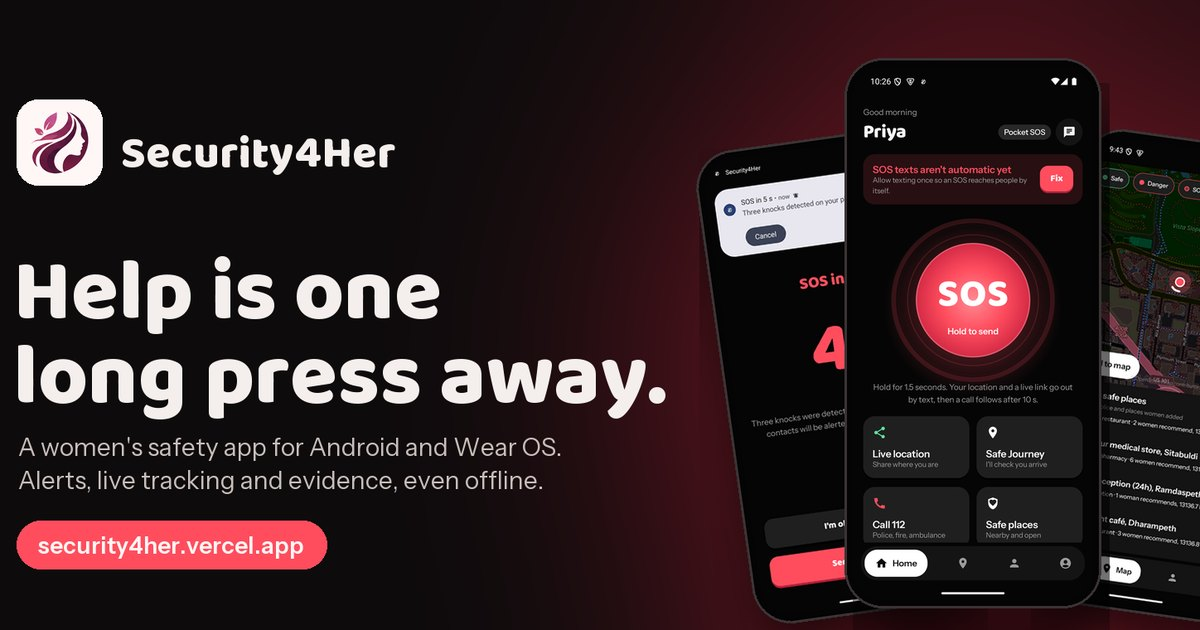
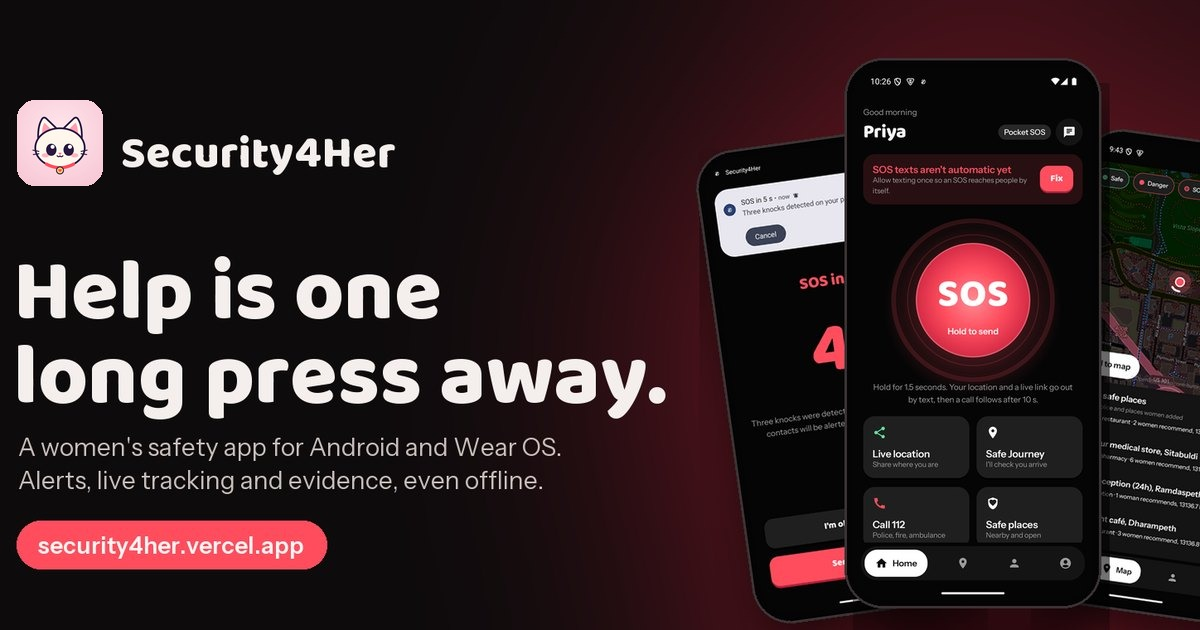
Inki Pinki

Changed region(s): [[0.0, 0.1508, 0.0925, 0.3016]]

diff --git a/web-install/index.html b/web-install/index.html
@@ -837,9 +837,9 @@ footer{border-top:1px solid var(--line);padding:32px 0 44px;color:var(--muted);f
   <div class="wrap foot">
     <a class="brand" href="#phone"><svg aria-hidden="true"><use href="#logo"/></svg>Security4Her</a>
     <div class="foot-meta">
-      <span>Phone app 1.1.0-beta.11 for Android 8 and newer. Watch app 1.1.0-beta.7 for Wear OS 3 and newer.</span>
+      <span>Phone app 1.1.0-beta.12 for Android 8 and newer. Watch app 1.1.0-beta.8 for Wear OS 3 and newer.</span>
       <span class="credits">Made by <b>Atharva Lakhe</b><i>·</i><b>Sanskar Dwivedi</b><i>·</i><b>Mohit Hadap</b><i>·</i><b>Ashay Malode</b></span>
-      <span class="hash">Phone app SHA-256 <code id="sha">e03f9ebf10a092cd49acf65b4102af3fe66914e025320c81dcbbe66102c8ae69</code><button class="copy-btn" type="button" data-copy-from="sha">Copy</button></span>
+      <span class="hash">Phone app SHA-256 <code id="sha">1ef317bac54ce72a348d9d079ce45940dd073674b456b32a77439eeec854fa9c</code><button class="copy-btn" type="button" data-copy-from="sha">Copy</button></span>
       <span class="foot-links"><a href="beta.html">Beta testing</a><a href="privacy.html">Privacy</a><a href="beta.html#whats-new">What's new</a><a href="beta.html#team">The team</a></span>
     </div>
   </div>
@@ -851,7 +851,7 @@ footer{border-top:1px solid var(--line);padding:32px 0 44px;color:var(--muted);f
 <script src="vendor/qrcode.min.js" defer></script>
 <script>
 (() => {
-  const APK = { url: "Security4Her-phone.apk", name: "Security4Her-phone.apk", bytes: 11029546 };
+  const APK = { url: "Security4Her-phone.apk", name: "Security4Her-phone.apk", bytes: 11009066 };
   const CANONICAL = "https://security4her.vercel.app/";
   const TABS = ["phone", "watch", "inside", "help"];
   const $ = (s, r = document) => r.querySelector(s);

diff --git a/CHANGELOG.md b/CHANGELOG.md
@@ -11,6 +11,12 @@
 - The encrypted recovery/Telegram evidence plan and Apple Watch app are excluded from this port.
 - iOS SDK compilation, signing and real-device behavior remain unverified on the Windows development host.
 
+## 1.1.0-beta.12 (2026-10-16)
+
+### Changed
+- **New look: the Security4Her cat.** The app icon, the in-app logo, the notification icon, the watch app icon, the
+  website and the iPhone port now use the cat from the install site instead of the old silhouette.
+
 ## 1.1.0-beta.11 (2026-10-02)
 
 ### Fixed
